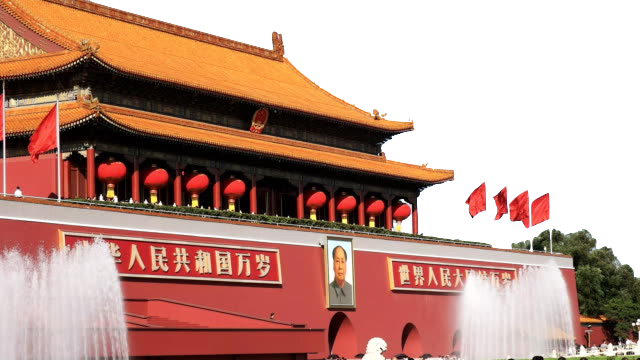
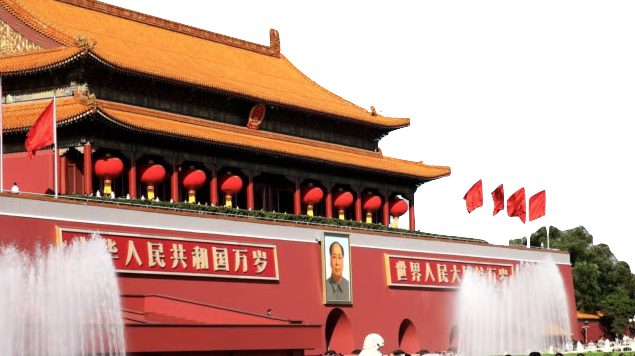
added

diff --git a/projectTwo/scripts.js b/projectTwo/scripts.js
@@ -1,4 +1,4 @@
-let forbiddenCity,statueOfLiberty;
+let forbiddenCity,statueOfLiberty, backGround;
 let pixelLevel = 3;
 let pixelLevelTwo = 3;
 let inc = 0.02;
@@ -8,36 +8,53 @@ let n = 0.15;
 let d = 0.5;
 
 function preload(){
-  forbiddenCity = loadImage('forbiddencity.png');
+  backGround = loadImage("bg.png");
+  forbiddenCity = loadImage("forbiddencity.png");
   statueOfLiberty = loadImage("statueofliberty.png");
 }
 
 function setup() {
-  createCanvas(2048, 2048);
+  createCanvas(1200,1200);
   angleMode(DEGREES);
-  background(0);
+  // background(0);
   frameRate(120);
 }
 
 function draw(){
-
-
  pixelDensity(1);
- 
-
-
-drawStatueOfLiberty();
+ // drawbg();
+  drawStatueOfLiberty();
  drawForbiddenCity();
-//background(0);
-  // drawbg();
- 
 
 }
+
+// function drawbg() {
+//   image(backGround,0,0,800,800);
+//  loadPixels();
+//   for (let y = 0; y < height; y+=pixelLevel) {
+//     let xoff = 0;
+//     for (let x = 0; x <  width; x+=pixelLevel) {
+//     let k = (x + y * width) * 4
+//     let randomValue = random(250,255);
+// //  let n = noise(xoff,yoff) * 255;
+//     let blueValue = random(100,150);
+//     let r = 255 - pixels[k] ;
+//     let g = 200 - pixels[k + 1] ;
+//     let b = 150- pixels[k + 2] ;
+//     let a = pixels[k + 3] ;
+//     stroke();
+//      // // triangle(x-pixelLevel,y-10,x,y,x+10,y+10);
+//     // ellipse(x, y , pixelLevel);
+//       }
+//       }
+  
+  
+// }
 
 
 function drawStatueOfLiberty(){
   let yoff = 0;
- image(statueOfLiberty,width/2, height/2,600,700);
+ image(statueOfLiberty,width/2, 200,450,500);
  loadPixels();
   for (let y = 0; y < height; y+=pixelLevel) {
     let xoff = 0;
@@ -62,20 +79,21 @@ function drawStatueOfLiberty(){
 
 function drawForbiddenCity(){
     let yoffTwo = 0;
-  image(forbiddenCity,0,0,1280,720);
+  image(forbiddenCity,0,0,640,360);
+    loadPixels();
   for (let y = 0; y < forbiddenCity.height; y+=pixelLevelTwo) {
     let xoffTwo = 0;
-   loadPixels();
+ 
     for (let x = 0; x < forbiddenCity.width; x+=pixelLevelTwo) {
       let j = (x + y * width) * 4
-      let randomValueTwo = random(200,250);
-   //   let n = noise(xoff,yoff) * 255;
-      let redValue = random()*100;
-      let r2 = pixels[j + 0] = randomValueTwo;
-      let g2 = pixels[j + 1];
-      let b2 = pixels[j + 2] ;
-      let a2 = pixels[j + 3] ;
-      fill(r2, g2, 0, a2);
+    //  let randomValueTwo = random(200,250);
+     // let n = noise(xoffTwo,yoffTwo) * 255;
+      let redValue = random(100,150);
+      let r = pixels[j + 0] = redValue;
+      let g = pixels[j + 1];
+      let b = pixels[j + 2]  ;
+      let a = pixels[j + 3] ;
+      fill(r, 0, 0, a);
      // // triangle(x-pixelLevel,y-10,x,y,x+10,y+10);
      ellipse(x, y, pixelLevelTwo);
       }
